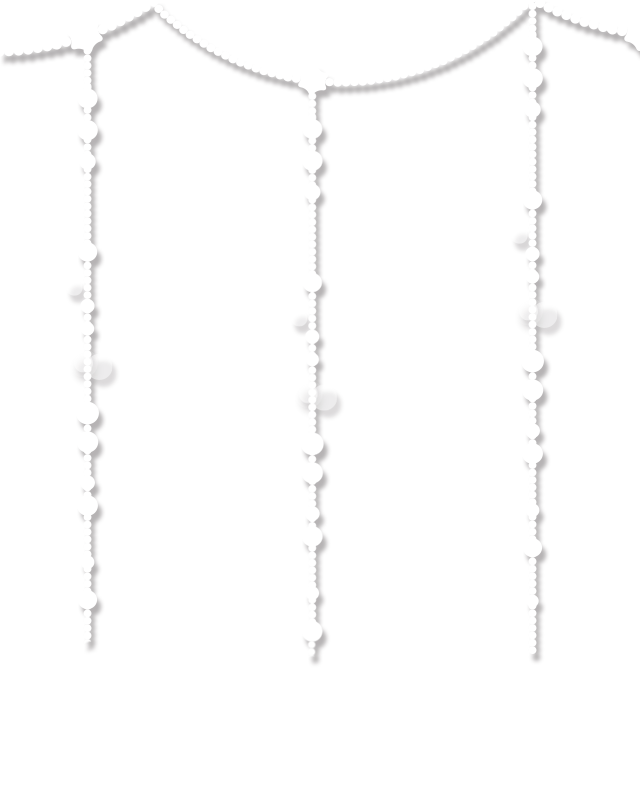
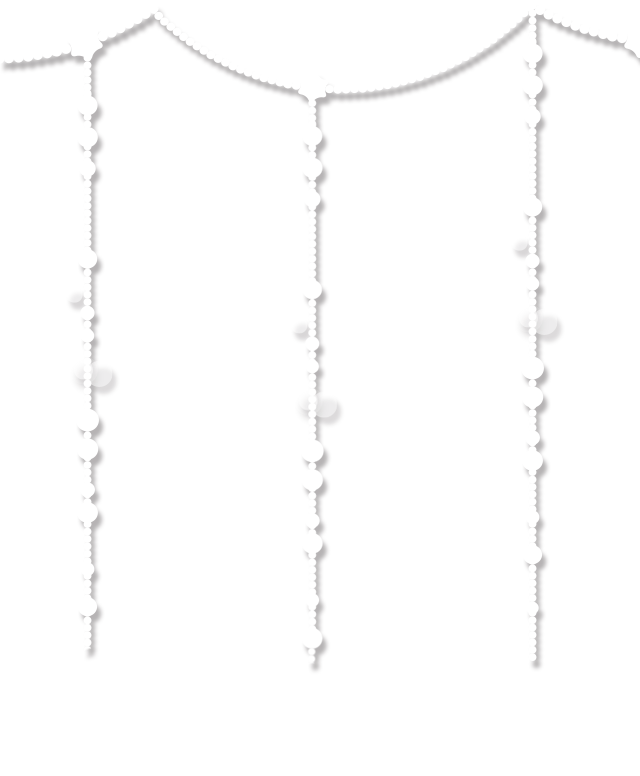
style

diff --git a/chirstmas/css/style.css b/chirstmas/css/style.css
@@ -48,7 +48,8 @@ body {
     max-width: 640px;
     min-width: 320px;
     margin: 0 auto;
-    min-height: 568px;
+    min-height: 560px;
+    overflow: hidden;
 }
 
 .full_page{
@@ -93,14 +94,14 @@ body {
 }
 .page1.current .title{
 	position: absolute;
-	top: 27px;
+	top: 10px;
 	left: 0;
 	width: 100%;
 	z-index: 1
 }
 .page1.current .snow{
 	position: absolute;
-    top: 13px;
+    top: 0;
     left: 61%;
     background: url(../images/christmas/snow.png) no-repeat;
     background-size: 56px 50px;
@@ -212,7 +213,7 @@ body {
 	width: 100%;
 	position: absolute;
 	left: 0;
-	top: 85%;
+	top: 88%;
 	z-index: 7
 }
 .page1.current .pointer,.page2.current .pointer{
@@ -234,27 +235,35 @@ body {
 	width: 100%;
 	position: absolute;
 	left: 0;
-	top:15%;
+	top:15.8%;
 }
 
 .page2.current .tips{
     width: 100%;
     position: absolute;
     left: 0;
-    top: 71%;
+    top: 71.5%;
     z-index: 10;
-
+}
+@media (min-width:350px) and (max-width: 376px) {
+	.page2.current .tips{
+    width: 100%;
+    position: absolute;
+    left: 0;
+    top: 74%;
+    z-index: 10;
+ }
 }
 .page2.current .fd{
 	background-size: 320px 568px;
     width: 100%;
     position: absolute;
     left: 0;
-    top: 85%;
+    top: 84.4%;
     z-index: 20;
 }
 .page1.current .pointer1{
-	top:33%;
+	top:28.5%;
 	position: absolute;
 	left: 0;
 	z-index: 5;
@@ -283,7 +292,7 @@ body {
 	width: 100%;
 	position: absolute;
 	left: 0;
-	top:0;
+	top:2%;
 }
 .page3.current .bd{
 	width: 320px;
@@ -347,7 +356,7 @@ body {
 	left: 210px;
 	top: 361px;
 }
-.page3.current .bd .icon.icon6{
+.page3.current .bd .icon.icon8{
 	background-position:-5px -218px; 
 	width: 48px;
 	height: 89px;
@@ -355,7 +364,7 @@ body {
 	top: 400px;
 	z-index: 2;
 }
-.page3.current .bd .icon.icon9{
+.page3.current .bd .icon.icon7{
 	background-position: -148px -20px;
     left: 150px;
     top: 375px;
@@ -368,7 +377,7 @@ body {
 	top: 400px;
 	z-index: 8;
 }
-.page3.current .bd .icon.icon7{
+.page3.current .bd .icon.icon9{
 	background-position:-127px -82px; 
 	width: 68px;
 	height: 39px;
@@ -570,16 +579,6 @@ body {
 	-webkit-transform: rotate(20deg);
 }
 
-
-
-
-
-
-
-
-
-
-
 .page4.current .hd{
 	width: 100%;
 	position: absolute;
@@ -588,8 +587,16 @@ body {
 .page4.current .bd{
 	width: 100%;
 	position: absolute;
-	top:0;
+	top:10%;
 	left: 0;
+}
+@media (min-width:350px) and (max-width: 376px) {
+	.page4.current .bd{
+		width: 100%;
+		position: absolute;
+		top:5%;
+		left: 0;
+	}
 }
 .page4.current .bd .flowers{
 	background:  url(../images/christmas/flowers.png) no-repeat;
@@ -633,13 +640,14 @@ body {
 }
 .page4.current .fd{
 	width: 320px;
-	height: 113px;
+	height: 100px;
 	position: absolute;
 	top:90%;
 	left: 54%;
 	margin-left:-160px;
 	margin-top:-57px;
 }
+
 .page4.current .fd .txt{
 	background: url(../images/christmas/btn4.png) 0 0 no-repeat;
 	background-size: 291px 107px;
@@ -770,18 +778,3 @@ body {
 	display:none
 }
 .page.page2,.page.page3,.page.page4{display: none;}
-
-
-
-
-
-
-
-
-
-
-
-
-
-
-

diff --git a/chirstmas/index.html b/chirstmas/index.html
@@ -105,14 +105,14 @@
                     <div class="icon clickBtn"></div>
                     <div class="goods">
                         <span class="icon icon1 animated infinite swing"></span>
-                        <span class="icon icon2 animated infinite swing"></span>
+                        <span class="icon icon6 animated infinite swing"></span>
                         <span class="icon icon3 animated infinite swing"></span>
                         <span class="icon icon4 animated infinite swing"></span>
                         <span class="icon icon5 animated infinite swing"></span>
-                        <span class="icon icon6 animated infinite updown"></span>
-                        <span class="icon icon7 animated infinite flash"></span>
-                        <span class="icon icon8 animated infinite swing"></span>
-                        <span class="icon icon9 animated infinite swing"></span>
+                        <span class="icon icon2 animated infinite swing"></span>
+                        <span class="icon icon7 animated infinite swing"></span>
+                        <span class="icon icon8 animated infinite updown"></span>
+                        <span class="icon icon9 animated infinite flash"></span>
                     </div>
                    <div>
                         <i class="lamp lamp1"></i>
@@ -178,7 +178,7 @@
                         <p>奖品已放置账户：<span class="phone">13590193775</span>(<a href="#" class="modify">修改</a>)</p>
                     </div>
                     <div>
-                        <a href="#" class="btn btn_success"></a>
+                        <a href="http://a.app.qq.com/o/simple.jsp?pkgname=com.geometry" class="btn btn_success"></a>
                         <a href="#" class="btn btn_other"></a>
                     </div>
                 </div>
